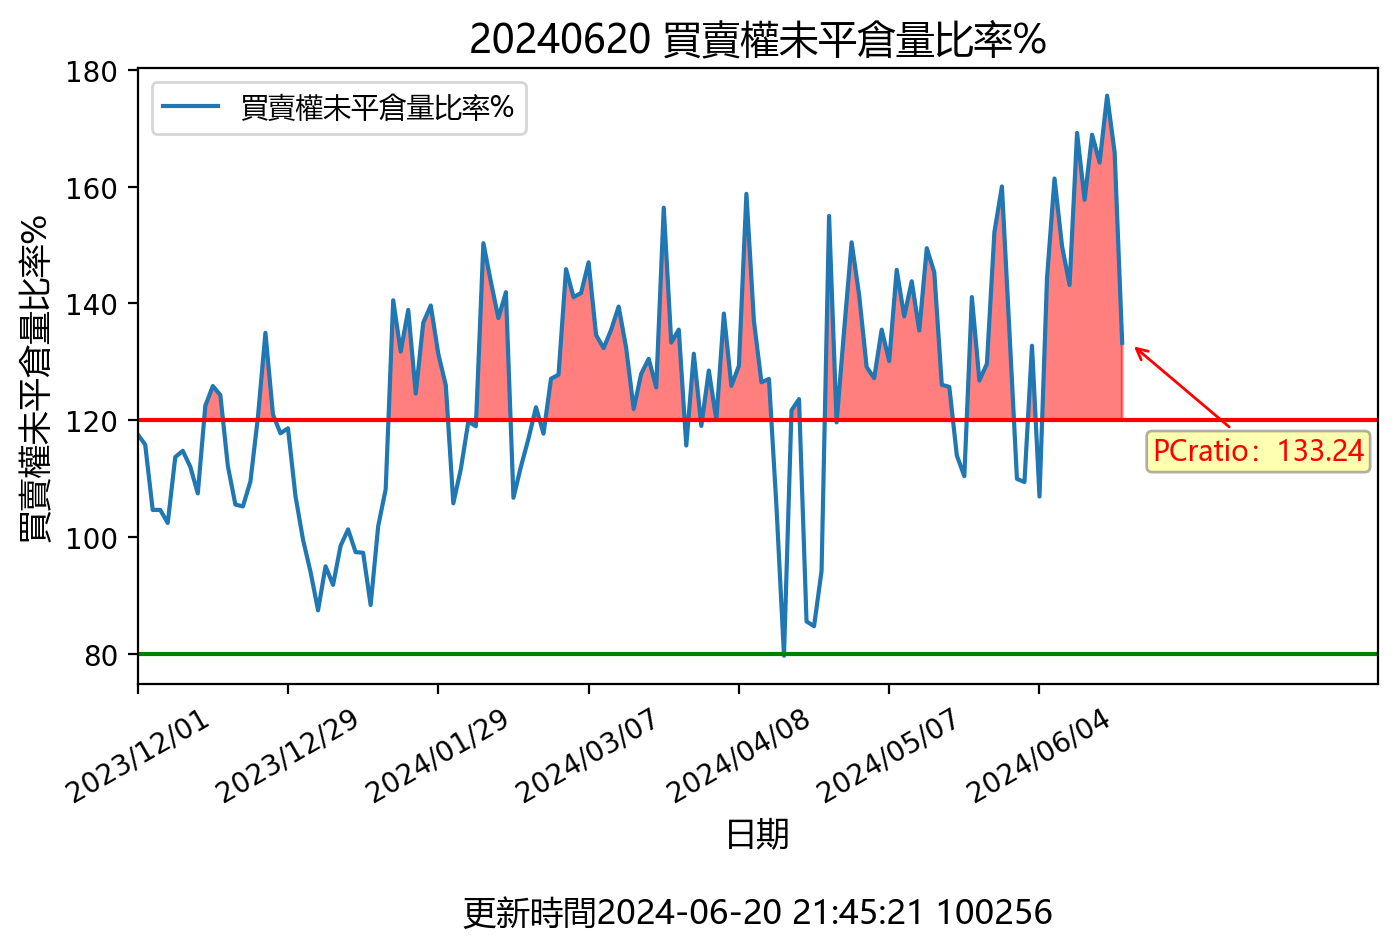
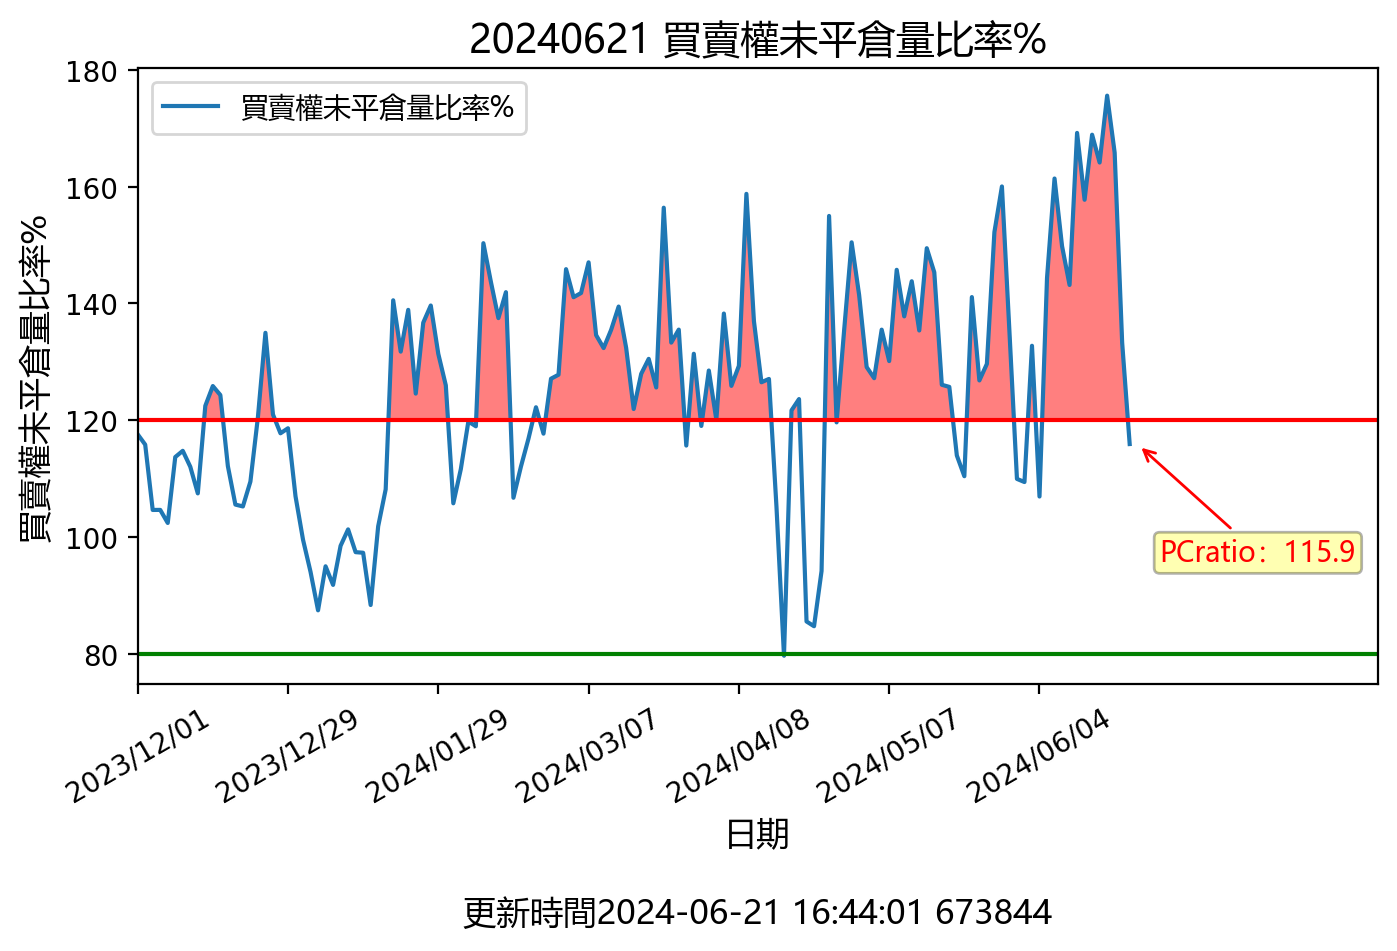
更新時間: Fri Jun 21 16:44:15 CST 2024

diff --git a/README.md b/README.md
@@ -1,9 +1,9 @@
-## 20240620 台指期「預估換倉成本」
+## 20240621 台指期「預估換倉成本」
 ![](txfcost.png)
 
-## 20240620 台指期「散戶小台多空比」
+## 20240621 台指期「散戶小台多空比」
 ![](bbiri.png)
 
-## 20240620 台指選擇權「Put/Call Ratios」
+## 20240621 台指選擇權「Put/Call Ratios」
 ![](pcratio.png)
 
